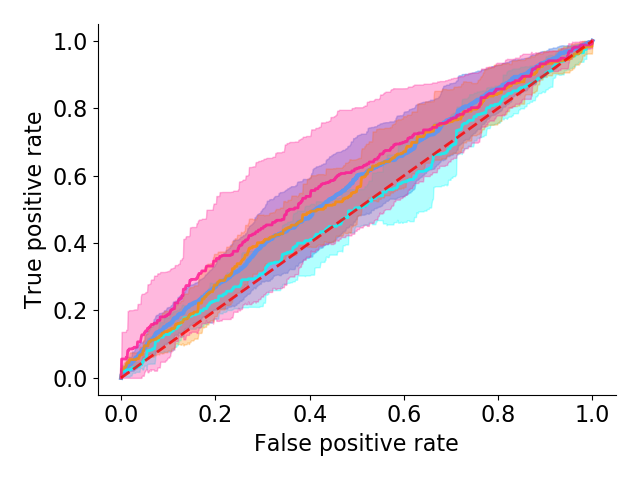
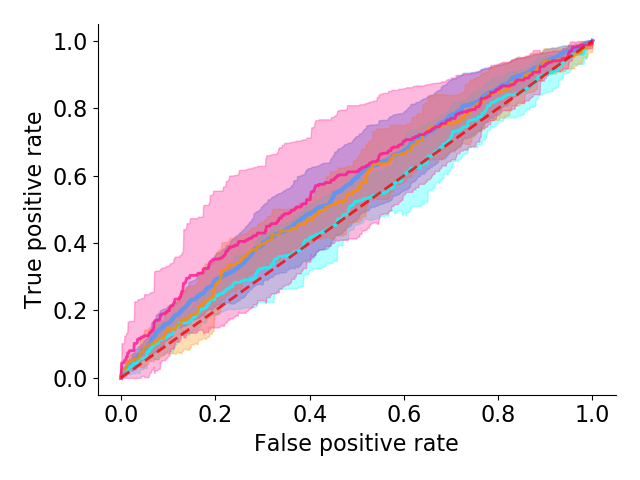
check individual classes auc of ktn SAM topo pred performance

diff --git a/Code/mainAnalyseOccurrenceAndPerformance.py b/Code/mainAnalyseOccurrenceAndPerformance.py
@@ -13,7 +13,7 @@ from MyScorer import mainPlotRocCurvesAndAUCLabelDetails
 from pathlib import Path
 from VisualisePredictionsOnTissue import mainCreateTissuePredictionColoringOf
 
-def plotAndPrepareMainFigures(resultsFolder="Results/MainFigures/", figuresToDo=["Fig. 2 B alternative", "Fig. 3 B alternative"]):
+def plotAndPrepareMainFigures(resultsFolder="Results/MainFigures/", figuresToDo=["Fig. 3 C ktn"]):
     Path(resultsFolder).mkdir(parents=True, exist_ok=True)
     # Fig. 2 A - .csv-file to use in MGX showing TP&TN in blue and FN&FP
     if figuresToDo == "all" or "Fig. 2 A" in figuresToDo:
@@ -89,6 +89,7 @@ def plotAndPrepareMainFigures(resultsFolder="Results/MainFigures/", figuresToDo=
         Path(fig3ResultFolder).mkdir(parents=True, exist_ok=True)
         mainPlotRocCurvesAndAUCLabelDetails(resultsBaseFolder="Results/ktnTopoPredData/diff/manualCentres/",
                                             modelBaseFolder="Results/topoPredData/diff/manualCentres/",
+                                            featureSets=["topoAndBio", "lowCor0.3", "topology"],
                                             saveUnderFolder=fig3ResultFolder)
     # Fig. 4 B - example of predicted and observed topo prediction
     if figuresToDo == "all" or "Fig. 4 B" in figuresToDo:
